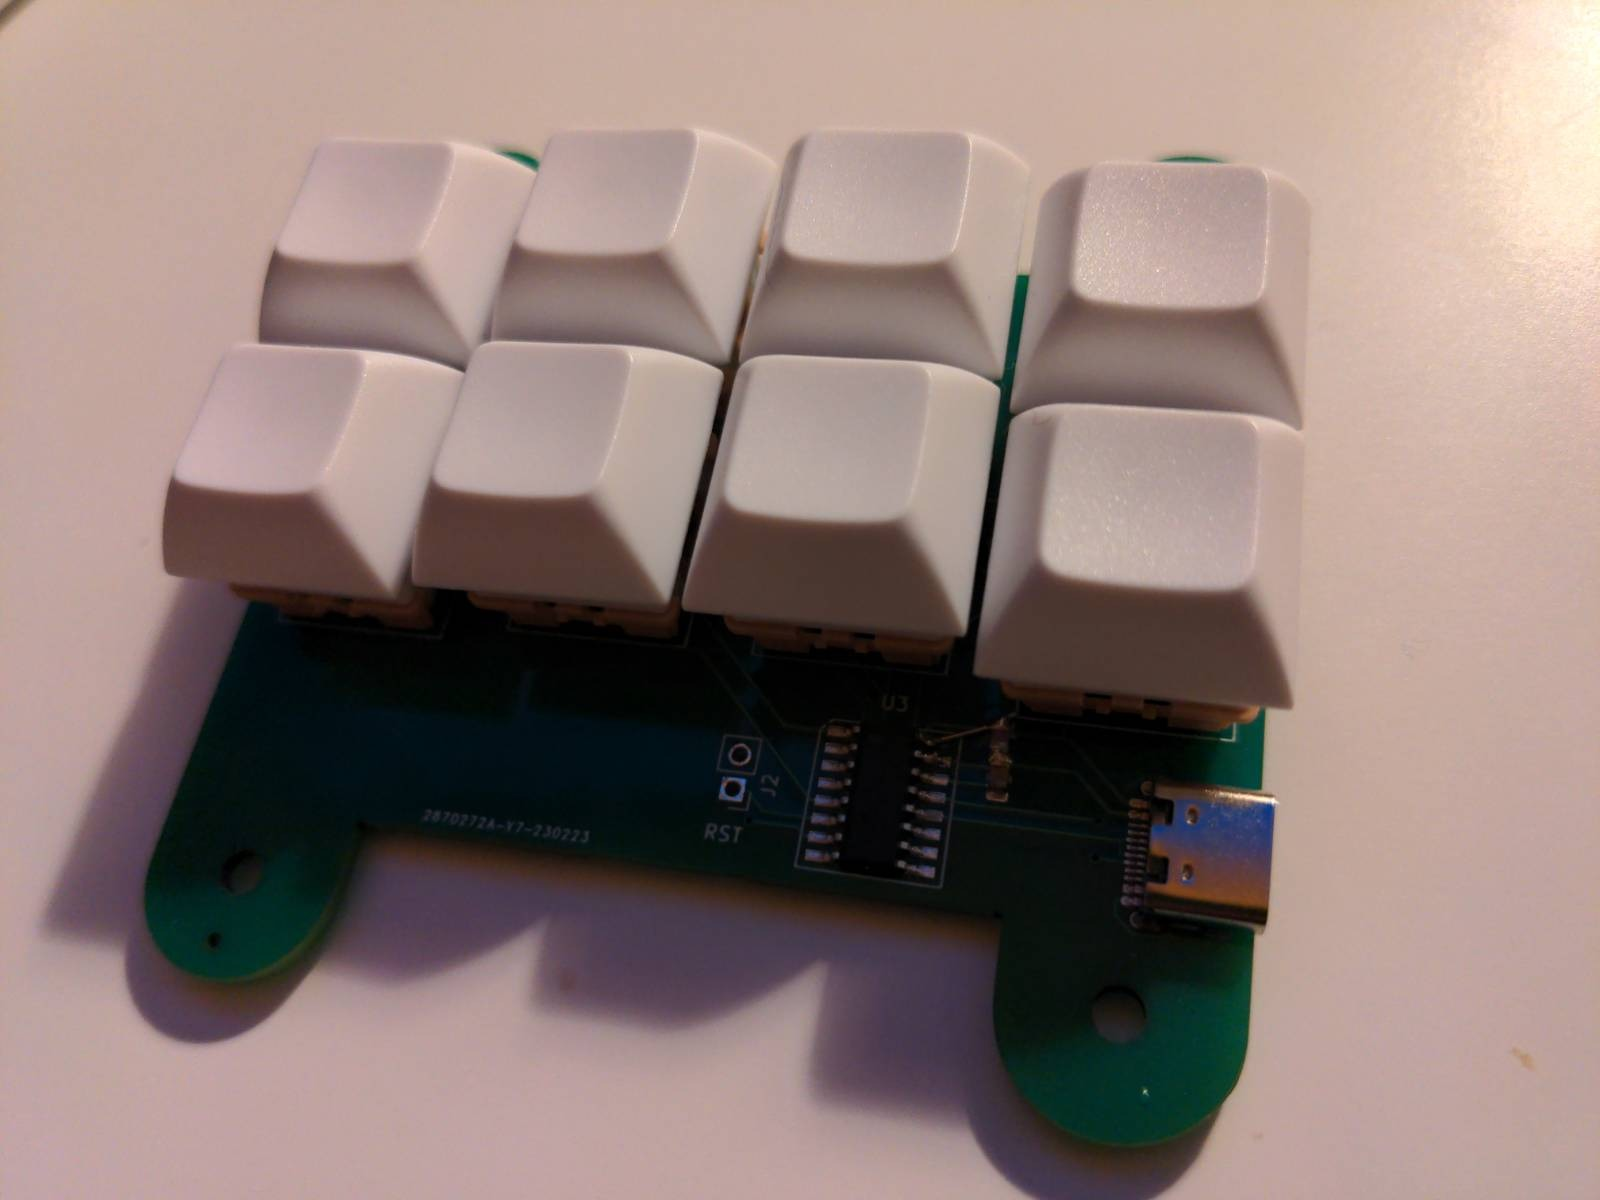
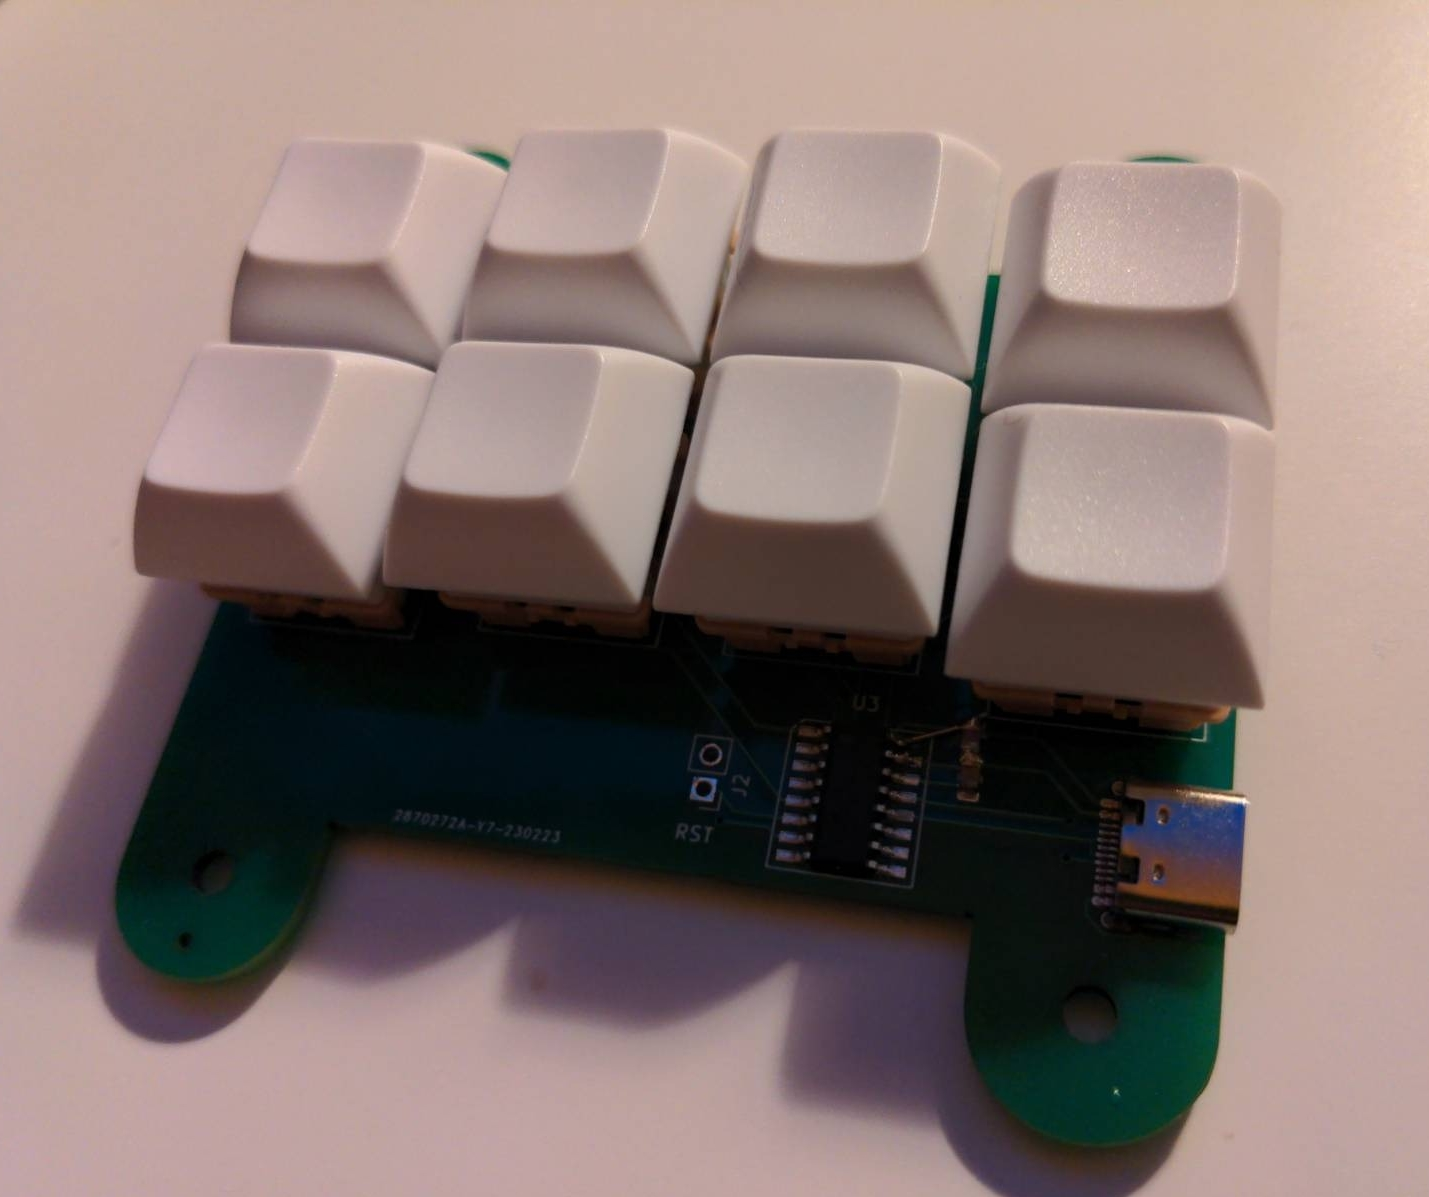
Updated readme images.

diff --git a/README.md b/README.md
@@ -6,7 +6,7 @@ The firmware requires [SDCC](https://sdcc.sourceforge.net/) and is based on an [
 ![](images/pcb_layout.png)
 The v1.1 layout.
 
-![](images/artseyio_complete.jpg)
+![](images/artseyio_complete.jpeg)
 A completed v1.0 board.
 
 ### Flashing
